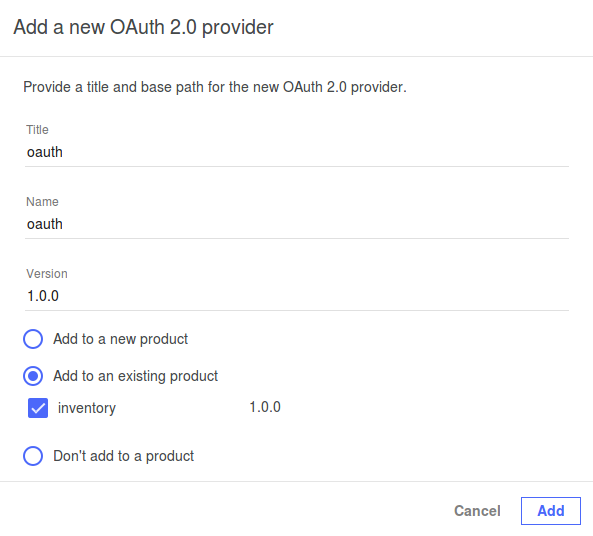
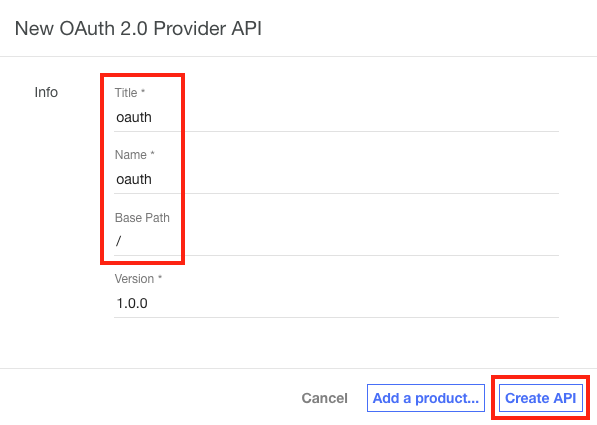
updates to lab 4

diff --git a/labs/lab4.md b/labs/lab4.md
@@ -33,12 +33,12 @@ In this tutorial, you will secure the Inventory API to protect the resources exp
     API Designer will open in your browser. You may see an informational message about Draft APIs. (This message appears the very first time you launch the API Designer.) If so, click the `Got it!` button, when you are ready to proceed to creating an API.
     
     You should see the APIs view, and a single API listed. The `inventory` API was automatically created during loopback app generation. We will edit this API at a later step.
-	
-	![alt text](https://github.com/ibm-apiconnect/pot/raw/gh-pages/images/lab4/startapidesigner.png)
+    
+    ![](https://github.com/ibm-apiconnect/pot/raw/gh-pages/images/lab4/startapidesigner.png)
 
 ### 4.2 - Adding a New OAuth 2.0 Provider API
 
-1.  Click the `+ Add` button and select `OAuth 2.0 Provider API` from the menu.
+1.  Click the `+ Add` button and select `New OAuth 2.0 Provider API` from the menu.
 
 1.  Specify the following properties and click the `Add` button to continue.
 
@@ -48,7 +48,7 @@ In this tutorial, you will secure the Inventory API to protect the resources exp
     > 
     > Base Path: `/`
     > 
-    > Add to an existing product: `inventory 1.0.0`
+    > Version: `1.0.0`
 	
     ![](https://github.com/ibm-apiconnect/pot/raw/gh-pages/images/lab4/newoauthprops.png)
 
@@ -69,7 +69,7 @@ In this tutorial, you will secure the Inventory API to protect the resources exp
 1.  Modify the values for `scope1`, set the following fields:
 
     > Name: `inventory`
-    >
+    > 
     > Description: `Access to Inventory API`
 
 1.  Delete `scope2` and `scope3` by clicking the trashcan icons to the right of the scope definitions.
@@ -81,18 +81,18 @@ In this tutorial, you will secure the Inventory API to protect the resources exp
 1.  Set the remaining OAuth 2 settings as follows:
 
     > Collect credentials using: `basic`
-    >
+    > 
     > Authenticate application users using: `Authentication URL`
-    >
+    > 
     > Authentication URL: `https://thinkibm-services.mybluemix.net/auth`
-    >
+    > 
     > Turn off the `Enable revocation` option
     
     When complete, your settings should look like this:
-	
+    
     ![](https://github.com/ibm-apiconnect/pot/raw/gh-pages/images/lab4/1.png)
 
-    {% include important.html content="The scope defined here must be identical to the scope that we define later when telling the `inventory` API to use this OAuth config. A common mistake is around case sensitivity. To avoid running into an error later, make sure that your scope is set to all **lowercase**.
+	{% include important.html content="The scope defined here must be identical to the scope that we define later when telling the `inventory` API to use this OAuth config. A common mistake is around case sensitivity. To avoid running into an error later, make sure that your scope is set to all **lowercase**.
     " %}
 
 1.  Switch to the `Assemble` tab.
@@ -117,7 +117,7 @@ In this tutorial, you will secure the Inventory API to protect the resources exp
 
 1.  In the gatewayscript editor, type the following lines of code:
 
-    ```js
+    ```javascript
     var hm = require('header-metadata');
     hm.response.set('Access-Control-Allow-Origin','*');
     ```
@@ -134,15 +134,7 @@ In this tutorial, you will secure the Inventory API to protect the resources exp
 
 1.  Click the `inventory` link.
 
-    The inventory API will open in the API Editor, where we can make the necessary configuration changes. Over the next several steps you will set this API up to use the OAuth provider you just created.  
-
-1.  Notice the warning icon at the top-right of the screen. Click on the icon and read the warning description. Click on the `Show me` link to navigate to the portion of the configuration which is causing the warning.
-
-    ![](https://github.com/ibm-apiconnect/pot/raw/gh-pages/images/lab4/x-any-warning.png)
-
-1.  Click on the `trashcan` icon for the `x-any` Definition to remove it. Confirm the removal by clicking the `OK` button in the prompt.
-
-    ![](https://github.com/ibm-apiconnect/pot/raw/gh-pages/images/lab4/delete-x-any.png)
+    The inventory API will open in the API Editor, where we can make the necessary configuration changes. Over the next several steps you will set this API up to use the OAuth provider you just created.
 
 1.  Navigate to the `Base Path` section.
 
@@ -169,8 +161,10 @@ In this tutorial, you will secure the Inventory API to protect the resources exp
     > Flow: `Password`
     > 
     > Token URL: `https://<BluemixHost>/<BluemixOrgName>-<BluemixSpaceName>/sb/oauth2/token`
-    
-    {% include important.html content="
+
+    **IMPORTANT**:
+
+	{% include important.html content="
         The Token URL will be based upon the location of your Org and Space running on Bluemix public.
         <br/><br/>You can find your base URL by logging into the API Manager on Bluemix. Log into Bluemix and launch the API Manager, then navigate into your catalog (the default catalog created is `Sandbox`).
         <br/><br/>From there go into `Settings`. If you scroll down a bit you will see what your `API Endpoint` is called, simply copy and paste the contents into the token URL, then append `/oauth2/token`.
@@ -178,13 +172,13 @@ In this tutorial, you will secure the Inventory API to protect the resources exp
 
     ![](https://github.com/ibm-apiconnect/pot/raw/gh-pages/images/lab4/bmx-api-endpoint.png)
 
-    {% include tip.html content="We are going to need the Token URL later. Go ahead and save the Token URL value to a text editor for easy access.
+	{% include tip.html content="We are going to need the Token URL later. Go ahead and save the Token URL value to a text editor for easy access.
     " %}
 
 1.  Click the `+` icon in the **Scopes** section to create a new scope. Set the following properties. Note the organization portion of the token URL will be different for each student.
 
     > Scope Name: `inventory`
-    >
+    > 
     > Description: `Access to all inventory resources`
 	
     ![](https://github.com/ibm-apiconnect/pot/raw/gh-pages/images/lab4/3.png)
@@ -238,9 +232,27 @@ An API Assembly provides collection of policies which are enforced and executed 
 
 We will validate the inventory application by using an Oauth test app we have running in Bluemix.
 
+1.  First, you need to attach the OAuth API to our `inventory` product.
+
+    Click on the `<- All APIs` link, then click on the `Products` link to view the product list.
+
+1.  Click on the `inventory 1.0.0` product to open it for editing.
+
+    ![](https://github.com/ibm-apiconnect/pot/raw/gh-pages/images/lab4/open-inv-product.png)
+
+1.  Scroll down to the **APIs** section and click the `+` button.
+
+1.  Select the `oauth` API to add it to the product and click the `Apply` button.
+
+    ![](https://github.com/ibm-apiconnect/pot/raw/gh-pages/images/lab4/add-oauth-api-to-product.png)
+
+1.  Save the Product.
+
+    ![](https://github.com/ibm-apiconnect/pot/raw/gh-pages/images/lab4/save-product.png)
+
 1.  Publish your API to Bluemix clicking on the `Publish` button.
 
-    ![](https://github.com/ibm-apiconnect/pot/raw/gh-pages/images/lab4/5.png)
+    ![](https://github.com/ibm-apiconnect/pot/raw/gh-pages/images/lab4/publish.png)
 
 1.  Click on your Bluemix instance. **Note:** Each instance name is unique and will be different than the screenshot below.
 
@@ -264,7 +276,7 @@ We will validate the inventory application by using an Oauth test app we have ru
 
 1.  To test the API, we need to use a Web App to simulate the Oauth handshake. To do this, open a new browser tab and navigate to the following URL:
 
-    [https://thinkibm-services.mybluemix.net/oauthtester](https://thinkibm-services.mybluemix.net/oauthtester)
+	[https://thinkibm-services.mybluemix.net/oauthtester](https://thinkibm-services.mybluemix.net/oauthtester)
 
 1.  Enter in the following values into the Form
 	
@@ -281,7 +293,7 @@ We will validate the inventory application by using an Oauth test app we have ru
 1.  Click the `Submit` button.
 
 1.  The OAuth Tester will attempt to call your Token URL and obtain an OAuth token. Once it receives a token, the tool will also call the `/inventory/items` API with a query filter to return back the first two data sets. If everything worked properly, you will see the token and the API response, similar to this:
-
+    
     ![](https://github.com/ibm-apiconnect/pot/raw/gh-pages/images/lab4/oauth-test-success.png)
 
     {% include troubleshooting.html content="
@@ -289,7 +301,7 @@ We will validate the inventory application by using an Oauth test app we have ru
         <br/><br/>
         You can use the Console, Network and Application Session storage features to trace the calls and logs.
     " %}
-
+    
 ## Conclusion
 
 **Congratulations!** You have successfully configured and secured the inventory API. You will consume this API in a later step.
